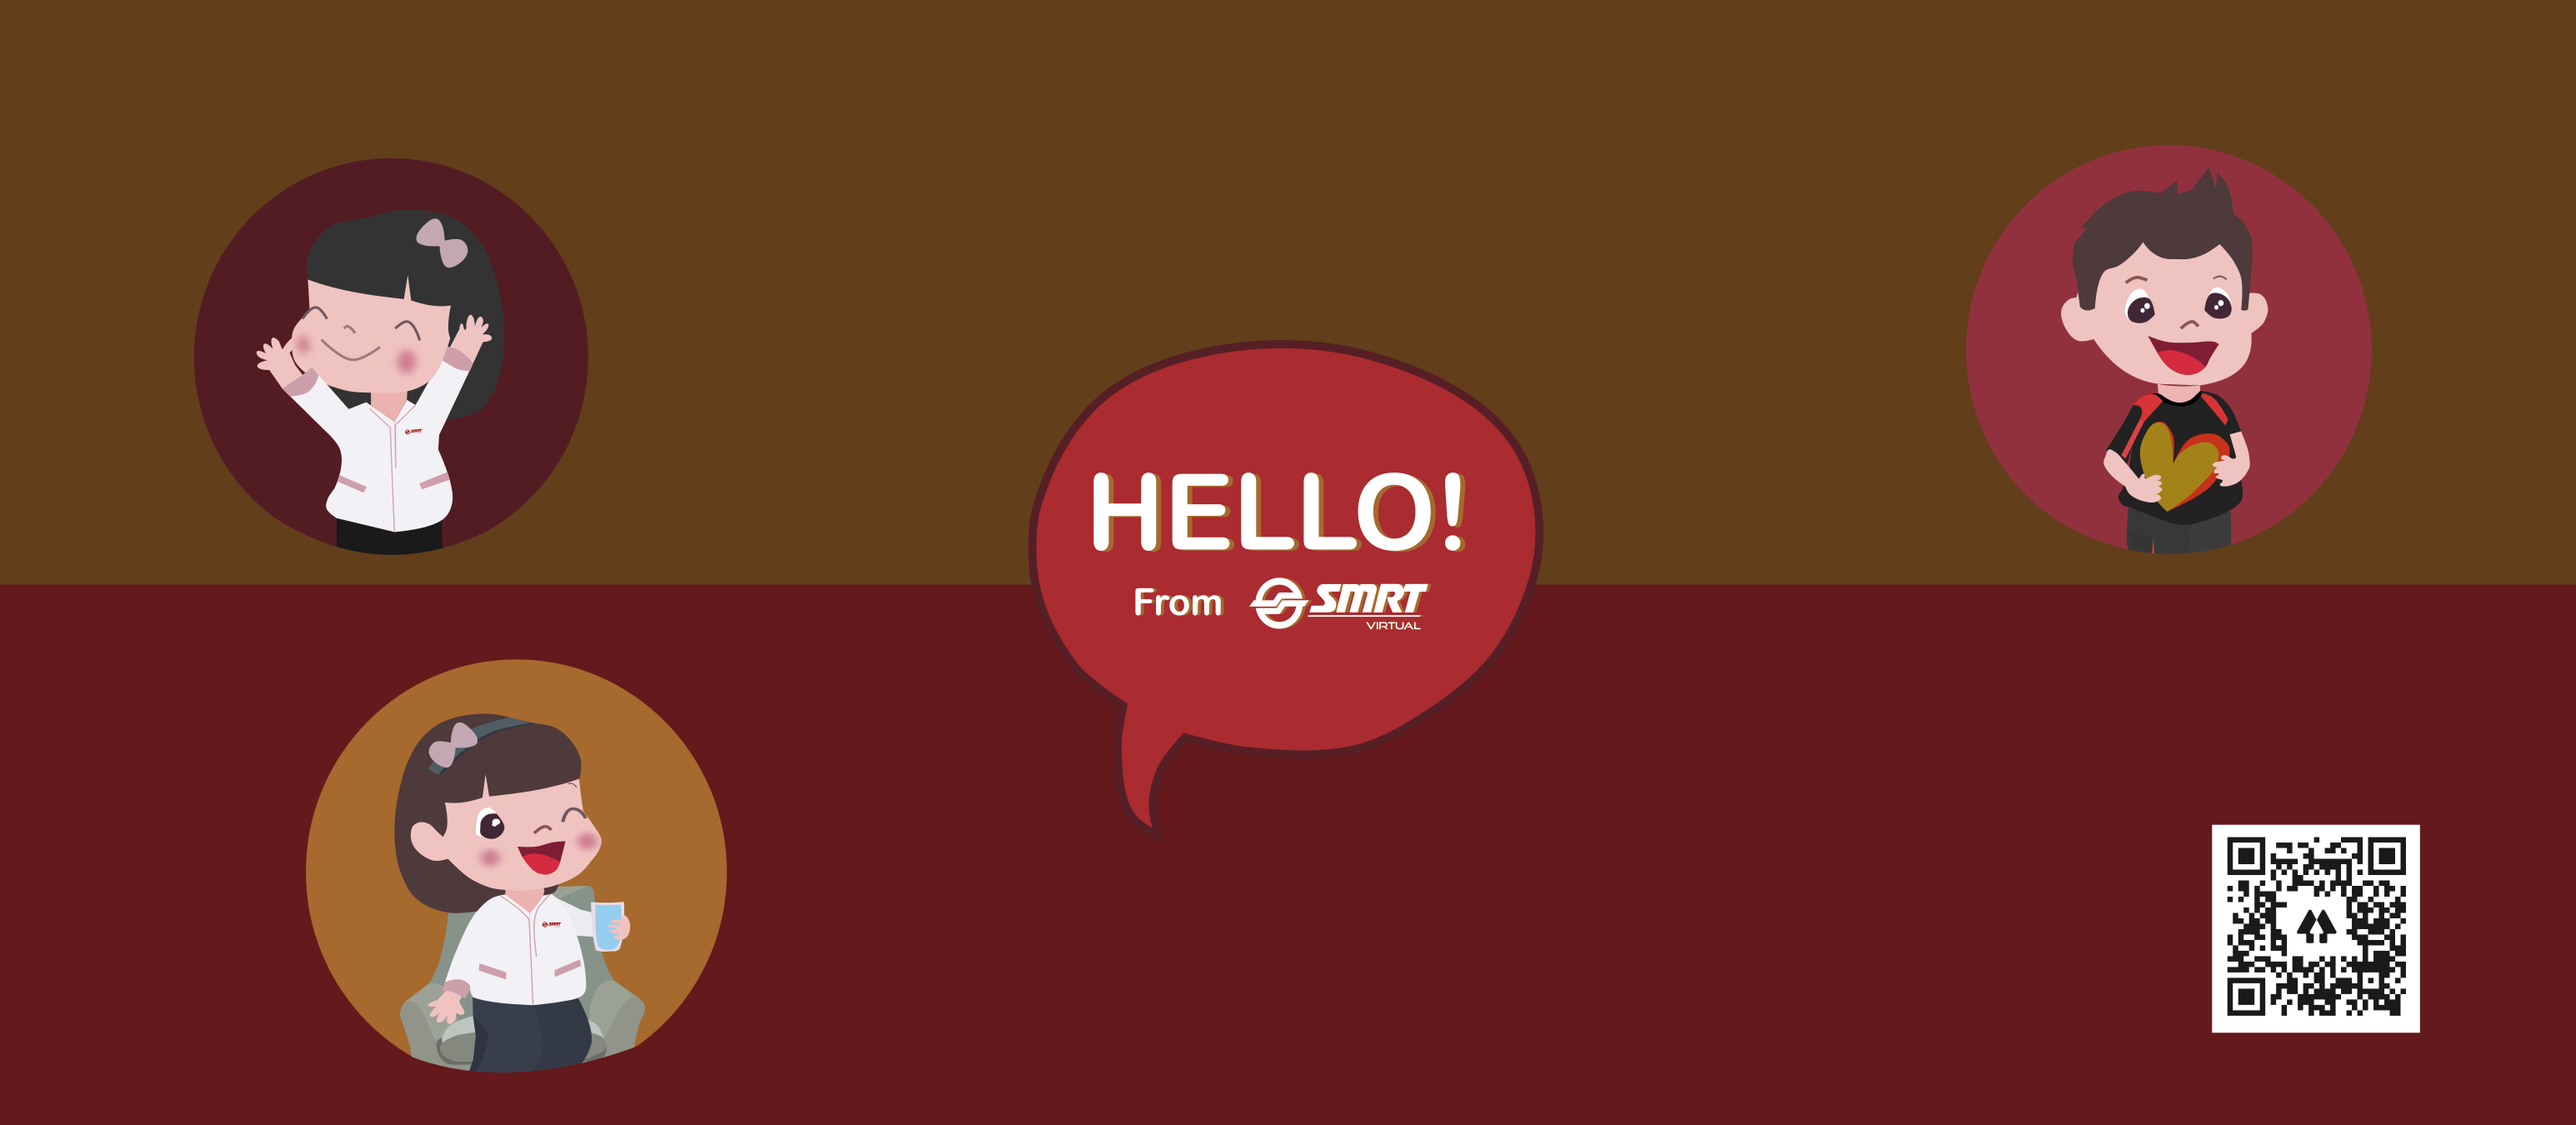
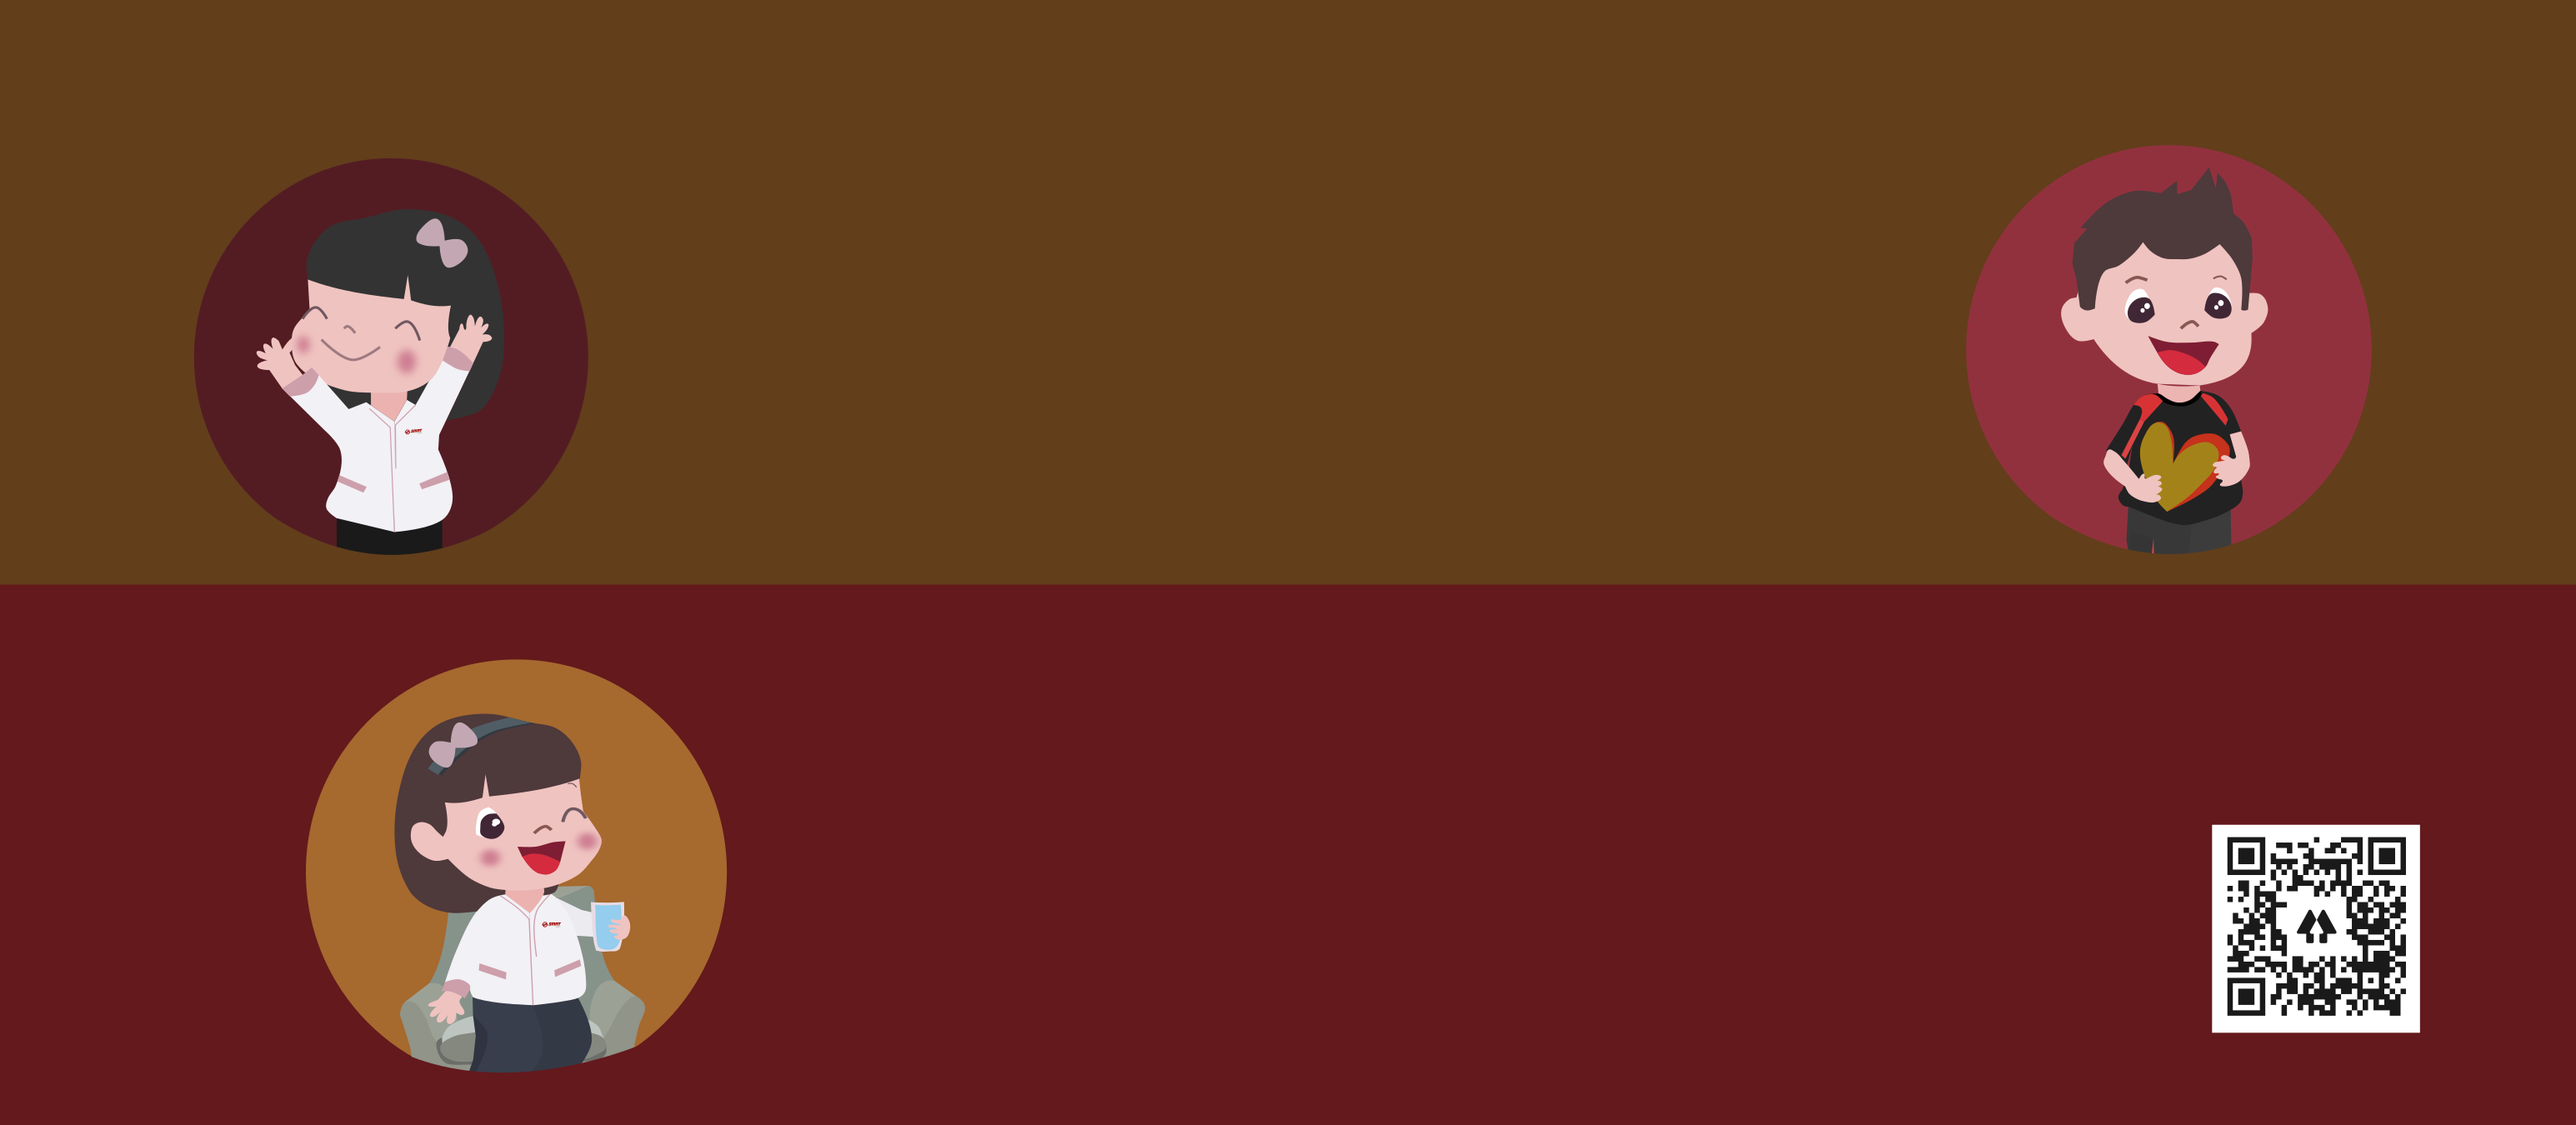
SMV_RELEASE_110322

Changed region(s): [[0.3727, 0.28, 0.6212, 0.7156]]

diff --git a/index.html b/index.html
@@ -78,6 +78,10 @@
 
   <!-- ======= Hero Section ======= -->
   <section id="hero">
+    <div class="hero-container" data-aos="fade-up" data-aos-delay="150">
+      <img src="assets/img/hello.png" class="img-fluid" alt="">
+      </div>
+    </div>
   </section><!-- End Hero -->
 
   <main id="main">
@@ -85,8 +89,6 @@
     <!-- ======= About Section ======= -->
     <section id="about" class="about">
       <div class="container" data-aos="fade-up">
-
-
         <div class="row">
 
           <div class="col-lg-6 video-box align-self-baseline" data-aos="zoom-in" data-aos-delay="100">
